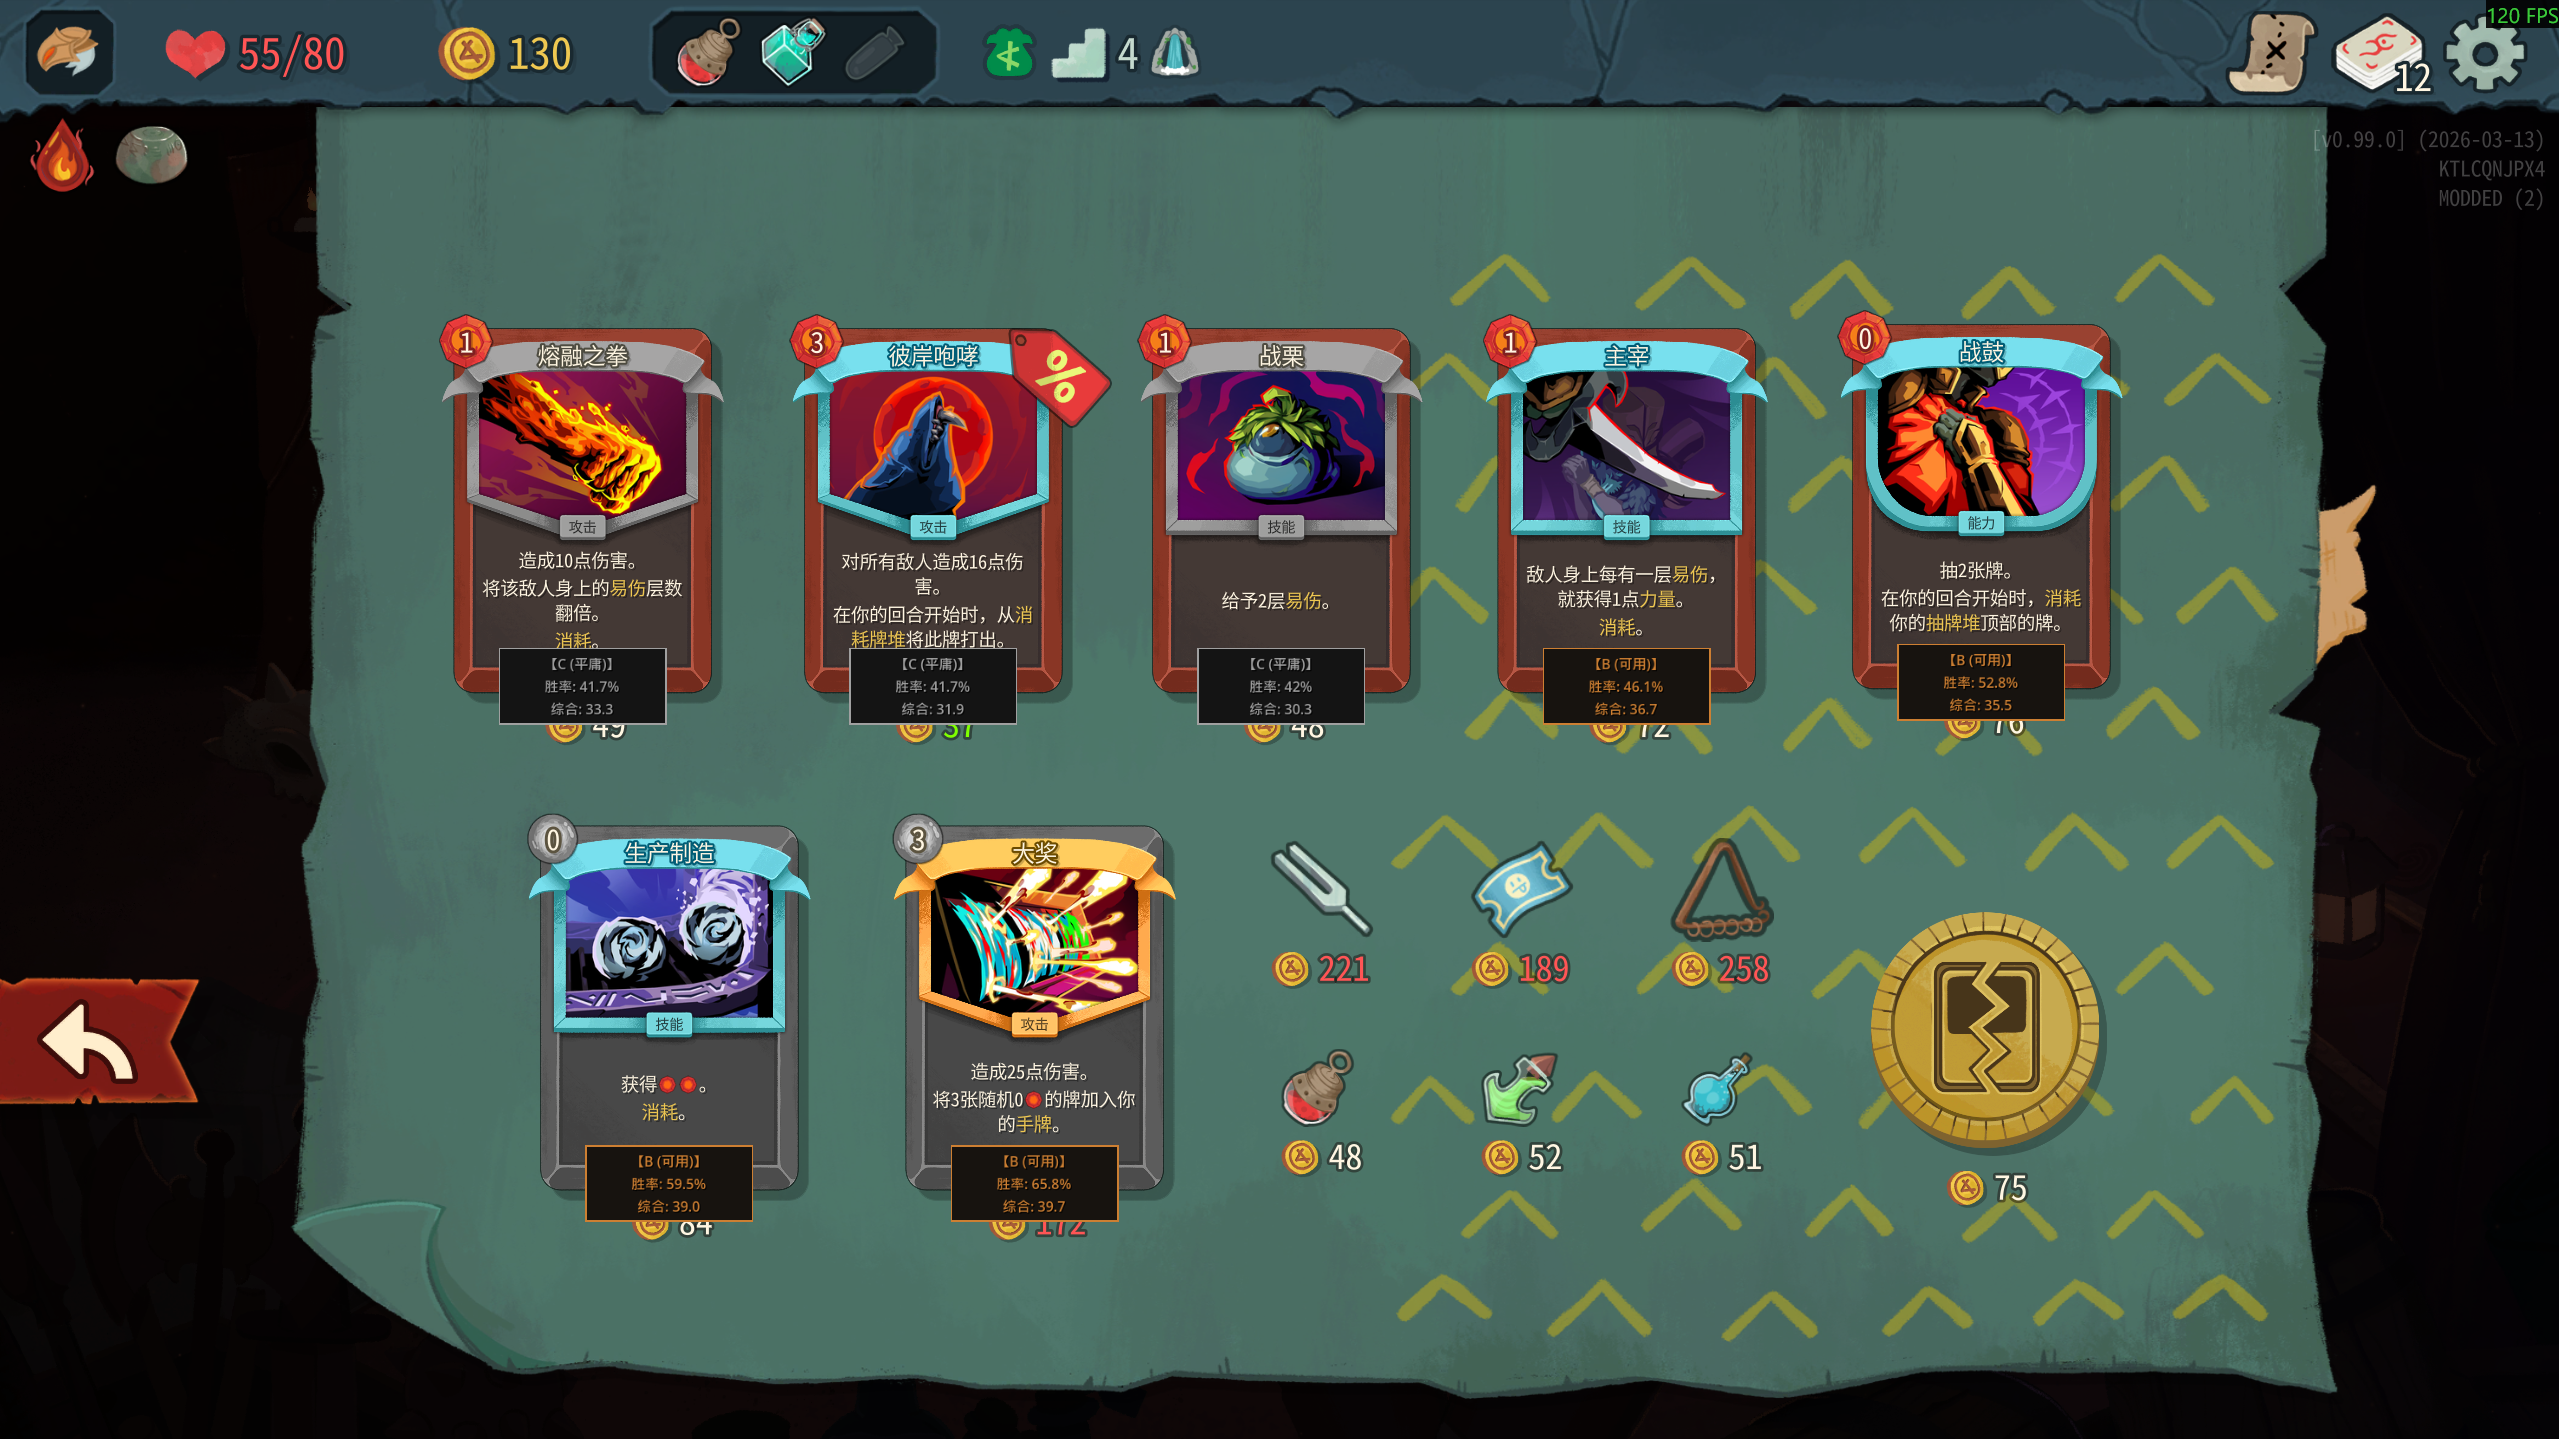
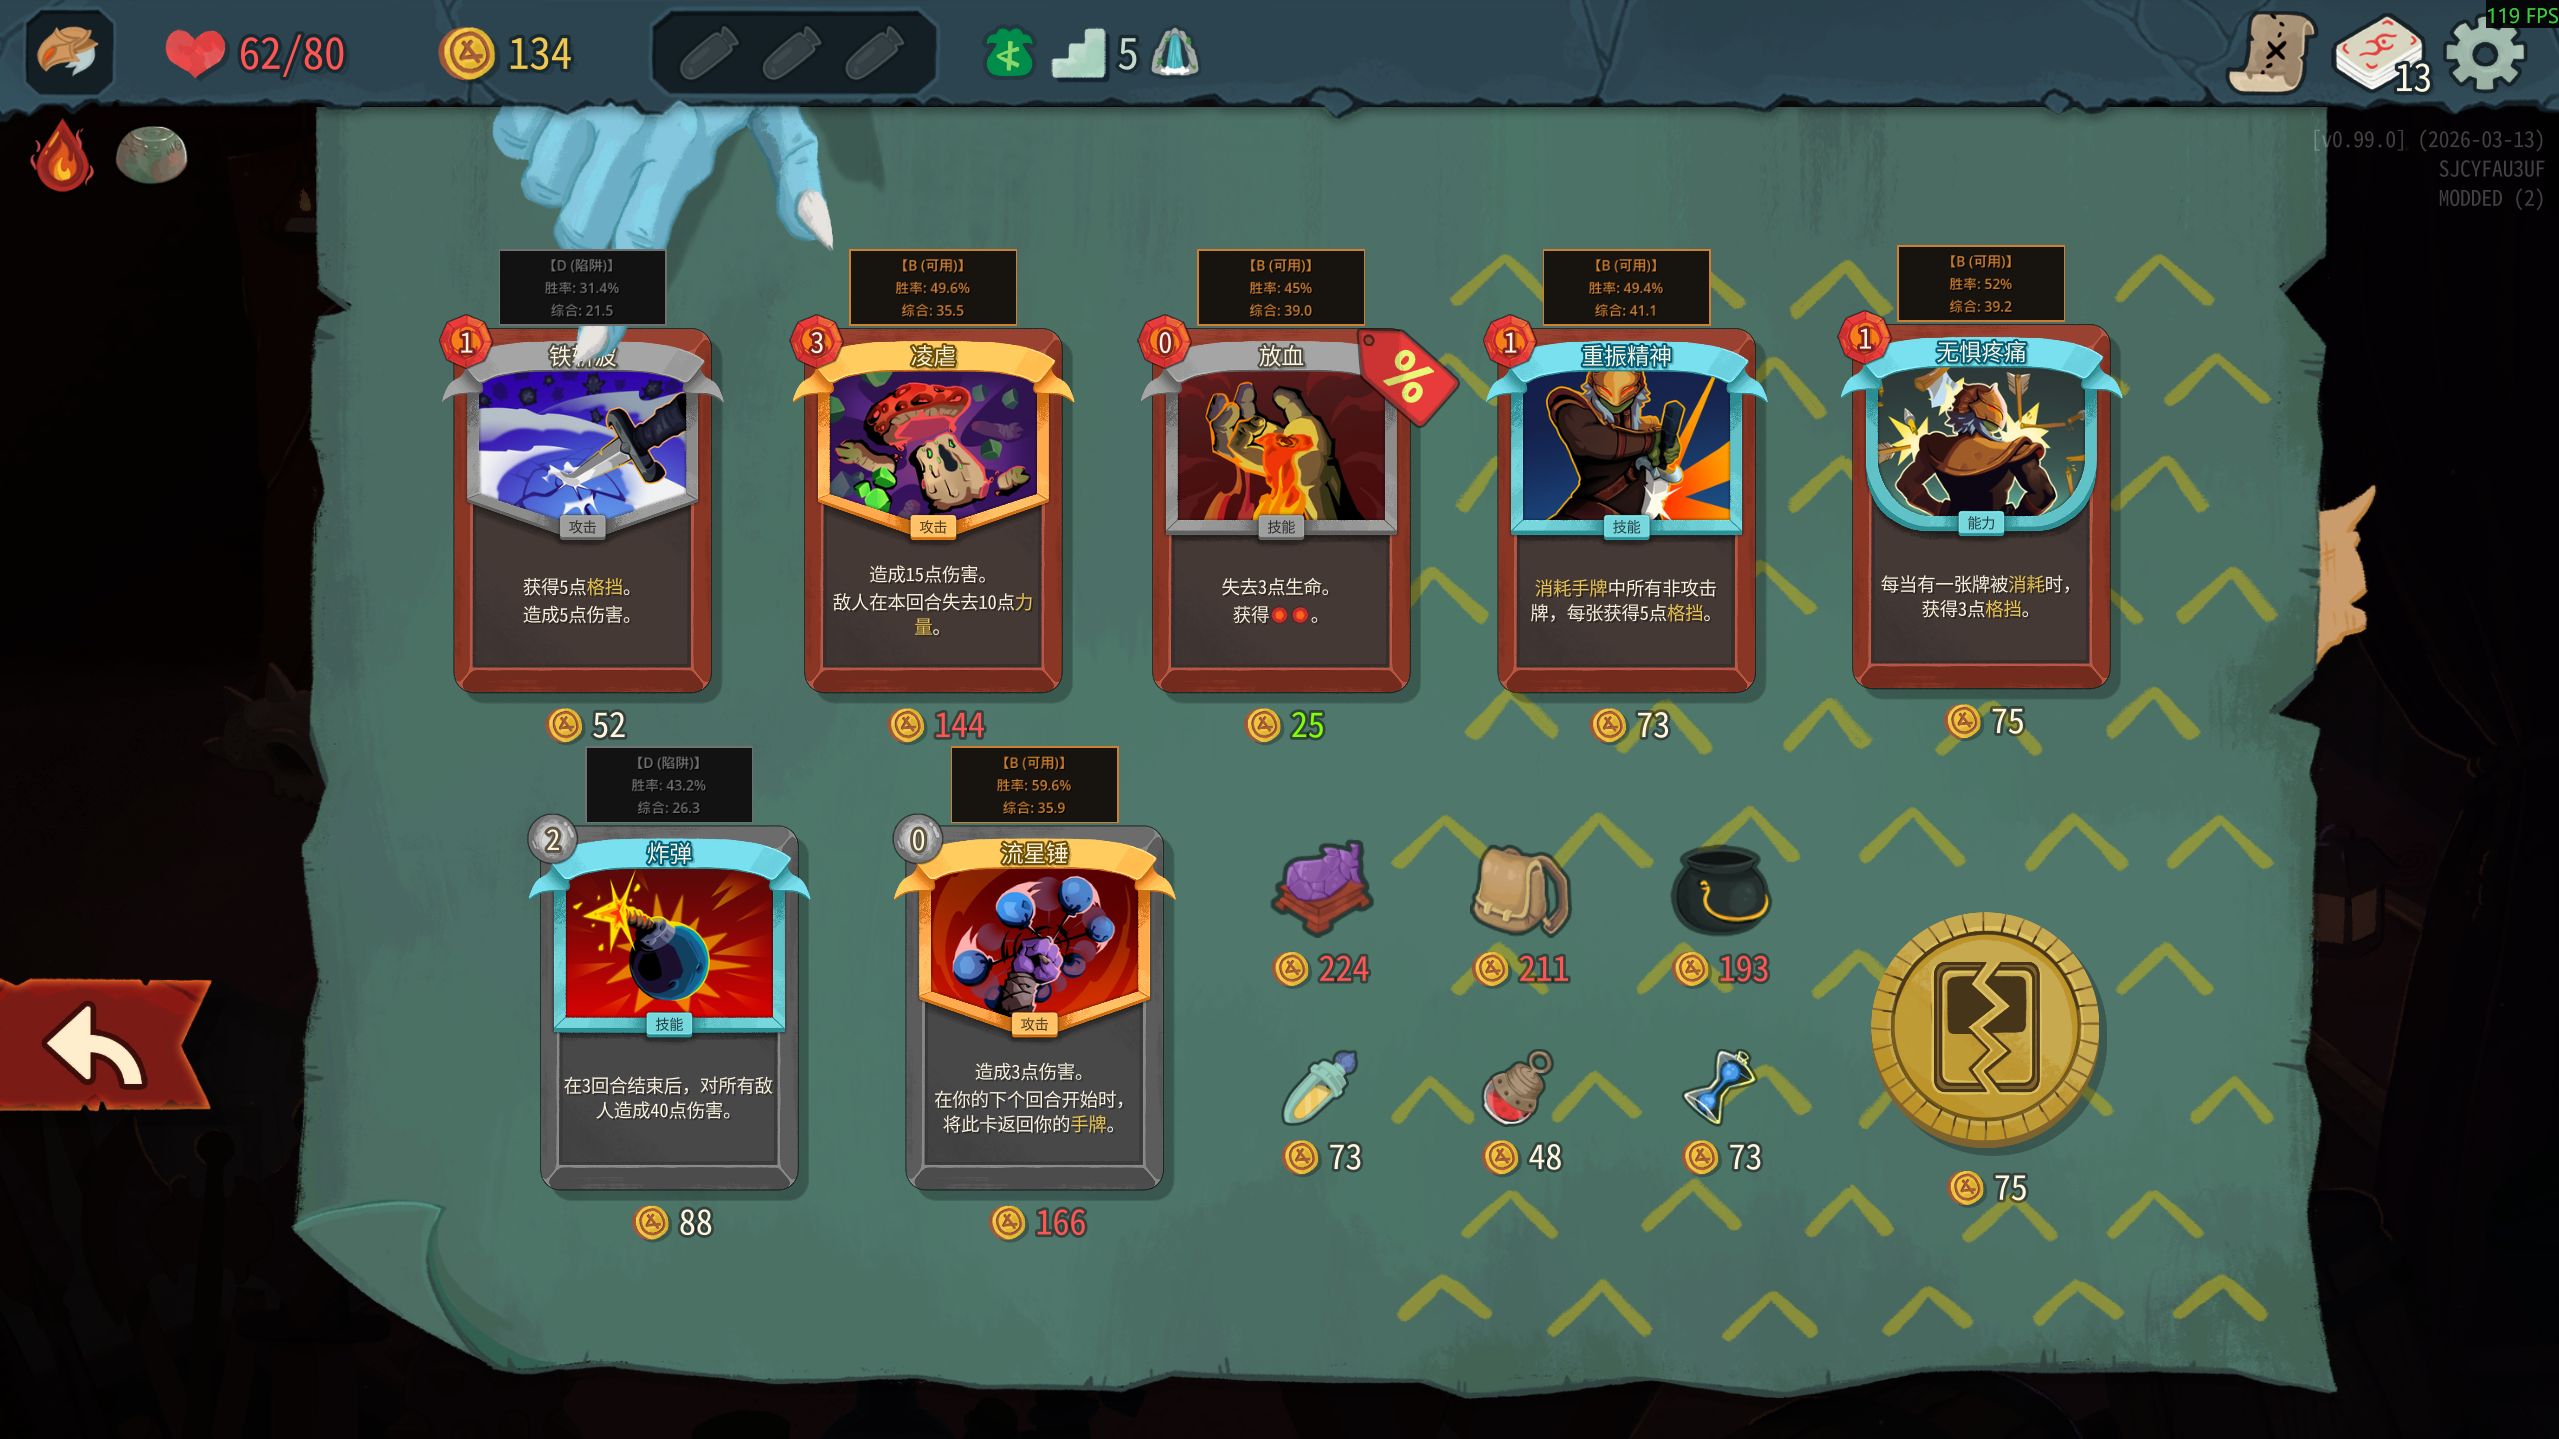
update store

diff --git a/CardRewardPatch.cs b/CardRewardPatch.cs
@@ -21,18 +21,22 @@ public static class FinalPatch
     {
         try
         {
-            if (__instance.HasNode("CardStatsUI")) return;
+            string uniqueId = System.Guid.NewGuid().ToString("N").Substring(0, 8);
+            string uiName = "CardStatsUI_" + uniqueId;
 
             var container = new Node2D();
-            container.Name = "CardStatsUI";
+            container.Name = uiName;
             
             float boxWidth = 190;
             float boxHeight = 85;
 
-            // 完美居中，在卡牌下方
             container.Position = new Vector2(-boxWidth / 2, 160); 
-            container.ZIndex = 500;
-            container.Visible = false; // 初始隐藏，由定时器接管
+            // 【核心修复】：彻底删除 ZIndex 的设定！
+            // Godot 引擎中，一旦设置 ZIndex（即使是相对的 1），
+            // 它就会在一个单独的更高渲染层绘制，从而刺穿游戏中所有 ZIndex 为 0 的黑色遮罩层。
+            // 只要不设置 ZIndex，它就会乖乖作为卡牌的普通子节点，
+            // 当遮罩层盖住卡牌时，也会完美盖住这个胜率框！
+            container.Visible = false; 
 
             var border = new ColorRect();
             border.SetSize(new Vector2(boxWidth + 4, boxHeight + 4));
@@ -56,8 +60,7 @@ public static class FinalPatch
             container.AddChild(label);
             __instance.AddChild(container);
 
-            // 使用超轻量定时器来应对 Godot 的对象池复用
-            SetupTracker(__instance, container, border, label);
+            SetupTracker(__instance, container, border, label, uiName);
         }
         catch (System.Exception ex)
         {
@@ -65,46 +68,87 @@ public static class FinalPatch
         }
     }
 
-    private static void SetupTracker(NCard cardNode, Node2D container, ColorRect border, Label label)
+    private static void SetupTracker(NCard cardNode, Node2D container, ColorRect border, Label label, string myUiName)
     {
         var timer = new Godot.Timer();
-        timer.WaitTime = 0.2f; // 每秒只执行 5 次，性能开销为 0
+        timer.WaitTime = 0.2f; 
         timer.Autostart = true;
         container.AddChild(timer);
+
+        float defaultY = 160f; 
+        float shopY = -300f;   
+        float boxWidth = 190f;
 
         timer.Timeout += () => 
         {
             if (!GodotObject.IsInstanceValid(container) || !GodotObject.IsInstanceValid(cardNode)) return;
 
-            // 如果卡牌不在屏幕树里，直接隐藏
-            if (!cardNode.IsInsideTree())
+            // 主动清理克隆造成的僵尸节点
+            foreach (Node child in cardNode.GetChildren())
             {
-                container.Visible = false;
-                return;
+                string childName = child.Name.ToString();
+                if (childName.StartsWith("CardStatsUI") && childName != myUiName)
+                {
+                    // 找到了因为对象池/克隆机制混进来的旧僵尸节点
+                    child.Name = "Killed_" + System.Guid.NewGuid().ToString(); // 改名防止干扰
+                    child.QueueFree(); // 销毁
+                }
             }
 
-            // 1. 判断位置：只要父节点有以下名字，说明在战斗中，立刻隐藏
+            // 1. 判断位置
             bool isCombat = false;
+            bool isShop = false;
+            bool isGridOrDeck = false;
+
             Node current = cardNode.GetParent();
             while (current != null)
             {
                 string n = current.Name.ToString().ToLower();
-                if (n.Contains("hand") || n.Contains("battle") || n.Contains("combat") || 
-                    n.Contains("deck") || n.Contains("pile") || n.Contains("discard"))
+                
+                if (n.Contains("battle") || n.Contains("combat") || n.Contains("hand"))
                 {
                     isCombat = true;
-                    break;
                 }
+                
+                if (n.Contains("shop") || n.Contains("merchant") || n.Contains("store"))
+                {
+                    isShop = true;
+                }
+
+                if (n.Contains("grid") || n.Contains("deck") || n.Contains("pile") || n.Contains("select") || n.Contains("remove"))
+                {
+                    isGridOrDeck = true;
+                }
+
                 current = current.GetParent();
             }
 
+            // 【关键】如果在战斗或手牌中，强制隐藏卡牌下所有可能的UI（即使是本节点的）
             if (isCombat)
             {
                 container.Visible = false;
+                // 为了防止克隆体没有Timer导致没被清理，我们手动扫一遍
+                foreach (Node child in cardNode.GetChildren())
+                {
+                    if (child.Name.ToString().StartsWith("CardStatsUI"))
+                    {
+                        (child as CanvasItem)!.Visible = false;
+                    }
+                }
                 return;
             }
 
-            // 2. 动态读取数据（卡牌从对象池拿出来时，Model 会变）
+            // 动态排版
+            if (isShop && !isGridOrDeck)
+            {
+                container.Position = new Vector2(-boxWidth / 2, shopY);
+            }
+            else
+            {
+                container.Position = new Vector2(-boxWidth / 2, defaultY);
+            }
+
+            // 2. 动态读取数据
             var flags = BindingFlags.Public | BindingFlags.Instance | BindingFlags.NonPublic;
             var modelObj = cardNode.GetType().GetField("_model", flags)?.GetValue(cardNode)
                         ?? cardNode.GetType().GetProperty("Model", flags)?.GetValue(cardNode);
@@ -117,13 +161,20 @@ public static class FinalPatch
 
             string internalName = modelObj.GetType().Name;
 
+            // 对于基础牌，也隐藏自己和所有可能的僵尸节点
             if (internalName.StartsWith("Strike") || internalName.StartsWith("Defend"))
             {
                 container.Visible = false;
+                foreach (Node child in cardNode.GetChildren())
+                {
+                    if (child.Name.ToString().StartsWith("CardStatsUI"))
+                    {
+                        (child as CanvasItem)!.Visible = false;
+                    }
+                }
                 return;
             }
 
-            // 显示数据
             container.Visible = true;
             if (CardDatabase.Data.TryGetValue(internalName, out var stats))
             {

diff --git a/README.md b/README.md
@@ -26,7 +26,7 @@
 ### 前置需求
 《杀戮尖塔 2》目前处于抢先体验阶段，官方暂未原生开放创意工坊。为了让代码级模组（如本 Mod）能够被游戏加载，你**必须**先安装社区核心加载库：
 
-**BaseLib (模组基础库)**
+**[BaseLib](https://github.com/Alchyr/BaseLib-StS2/releases) (模组基础库)**
 *   **这是什么？**：BaseLib 是当前 STS2 模组社区使用的核心 Mod 加载器和工具库。本 Mod 依赖它来完成初始化和对游戏本体的底层代码注入（Harmony Patch）。
 *   **如何获取？**：你通常可以在 NexusMods、Discord 或官方 Mod 社区找到它。
 *   **如何安装 BaseLib？**：下载后，将 BaseLib 解压到游戏的 `mods` 文件夹中。安装好后，你的目录应该长这样：`Slay the Spire 2/mods/BaseLib/BaseLib.dll` (及相关配置和 .pck 文件)。
@@ -48,7 +48,8 @@
    └── mods/
        ├── BaseLib/                   # [必须存在] 核心前置库
        │   ├── BaseLib.dll
-       │   └── ...
+       │   └── BaseLib.json
+       │   └── BaseLib.pck
        └── CardProbMod/               # [本模组]
            ├── CardProbMod.dll        # 核心逻辑文件
            ├── CardProbMod.json       # Mod 配置文件
